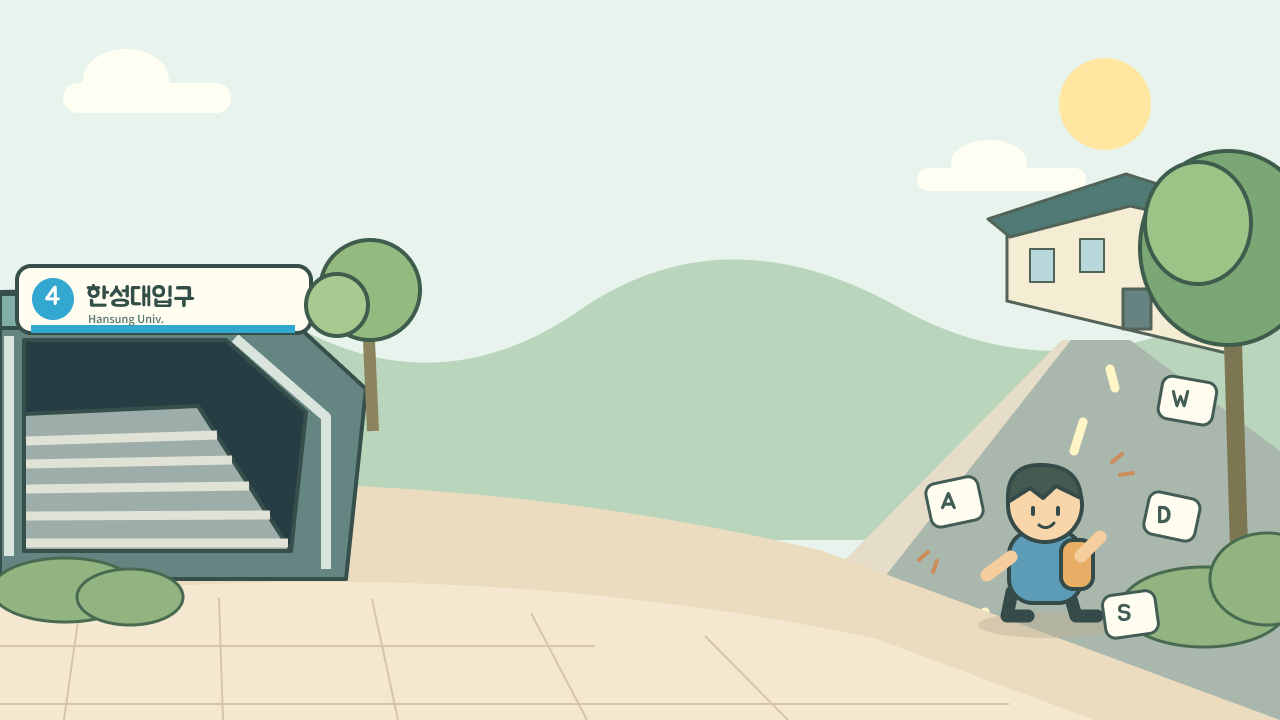
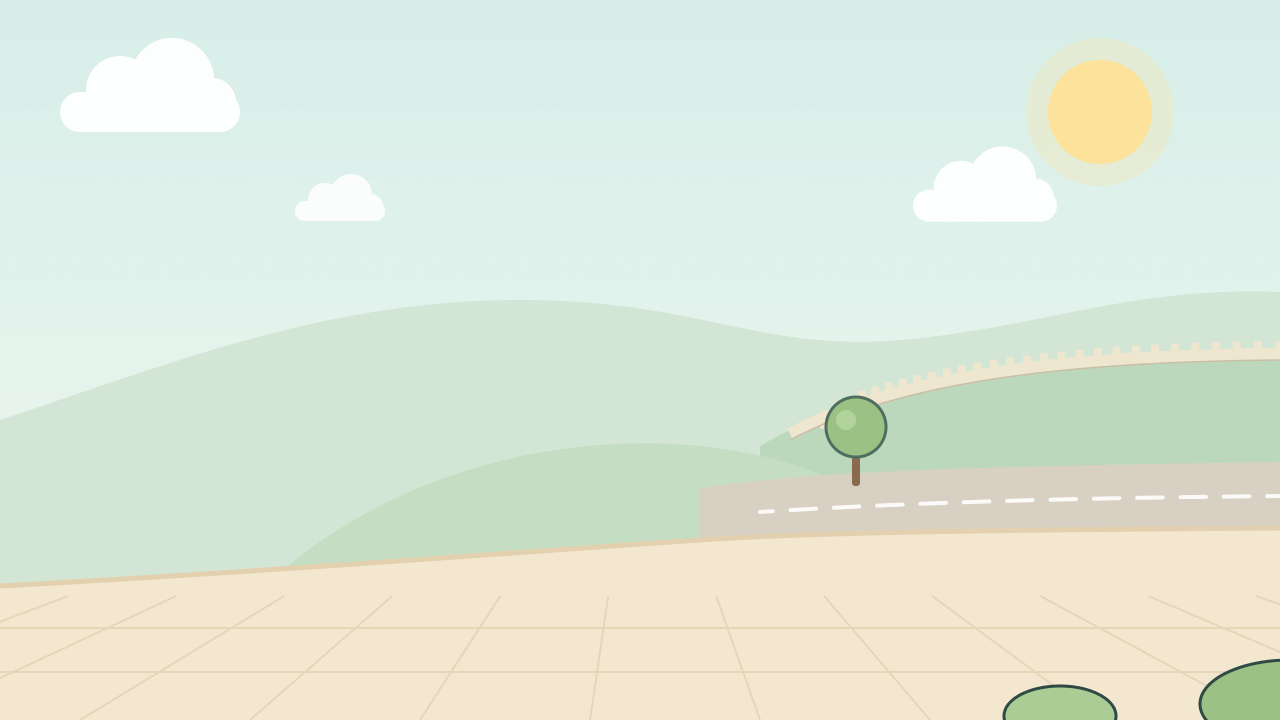
Match main menu background to Figma artwork

diff --git a/src/main/MainMenuPanel.java b/src/main/MainMenuPanel.java
@@ -4,6 +4,7 @@ import javax.swing.*;
 import java.awt.*;
 import java.awt.image.BufferedImage;
 import java.util.LinkedHashMap;
+import java.util.List;
 import java.util.Map;
 
 @SuppressWarnings("serial")
@@ -18,13 +19,26 @@ final class MainMenuPanel extends JPanel {
     }
 
     private final BufferedImage background = ImageAssets.load("background");
+    // Figma 6:2의 배경 장식. PNG 내보내기에서 잘린 여백을 반영한 좌표다.
+    private final List<Artwork> backgroundArt = List.of(
+        new Artwork("station", 0, 220),
+        new Artwork("village-bus", 926, 328),
+        new Artwork("bugi-shadow", 1104, 680),
+        new Artwork("bugi", 1098, 490),
+        new Artwork("station-line", 45, 249),
+        new Artwork("station-name", 84, 236),
+        new Artwork("station-subtitle", 86, 265),
+        new Artwork("bus-route", 1068, 406),
+        new Artwork("bus-label", 1152, 407),
+        new Artwork("wasd", 874, 556)
+    );
     private final BufferedImage title = ImageAssets.load("title");
     private final BufferedImage footer = ImageAssets.load("footer");
     private final Map<JButton, Rectangle> positions = new LinkedHashMap<>();
 
     MainMenuPanel(Actions actions) {
         setLayout(null);
-        setBackground(new Color(0x304B46));
+        setBackground(new Color(0xF2F7F0));
         setPreferredSize(new Dimension(1280, 720));
         addButton("create-room", "방 만들기", 486, 305, 308, 63, actions::createRoom);
         addButton("join-room", "참여하기", 486, 379, 308, 63, actions::joinRoom);
@@ -43,6 +57,16 @@ final class MainMenuPanel extends JPanel {
         button.addActionListener(e -> action.run());
         positions.put(button, new Rectangle(x, y, w, h));
         add(button);
+    }
+
+    private record Artwork(BufferedImage image, int x, int y) {
+        Artwork(String asset, int x, int y) {
+            this(ImageAssets.load(asset), x, y);
+        }
+
+        void paint(Graphics2D g) {
+            g.drawImage(image, x, y, null);
+        }
     }
 
     // 배경과 버튼에 같은 배율을 적용해 창 크기를 바꿔도 위치가 맞도록 한다.
@@ -66,6 +90,7 @@ final class MainMenuPanel extends JPanel {
         g.scale(s, s);
         g.setRenderingHint(RenderingHints.KEY_INTERPOLATION, RenderingHints.VALUE_INTERPOLATION_BICUBIC);
         g.drawImage(background, 0, 0, 1280, 720, null);
+        backgroundArt.forEach(artwork -> artwork.paint(g));
         g.drawImage(title, 330, 87, 620, 168, null);
         // Figma trims transparent padding when exporting an individual text node.
         g.drawImage(footer, (1280 - footer.getWidth()) / 2, 671, null);
